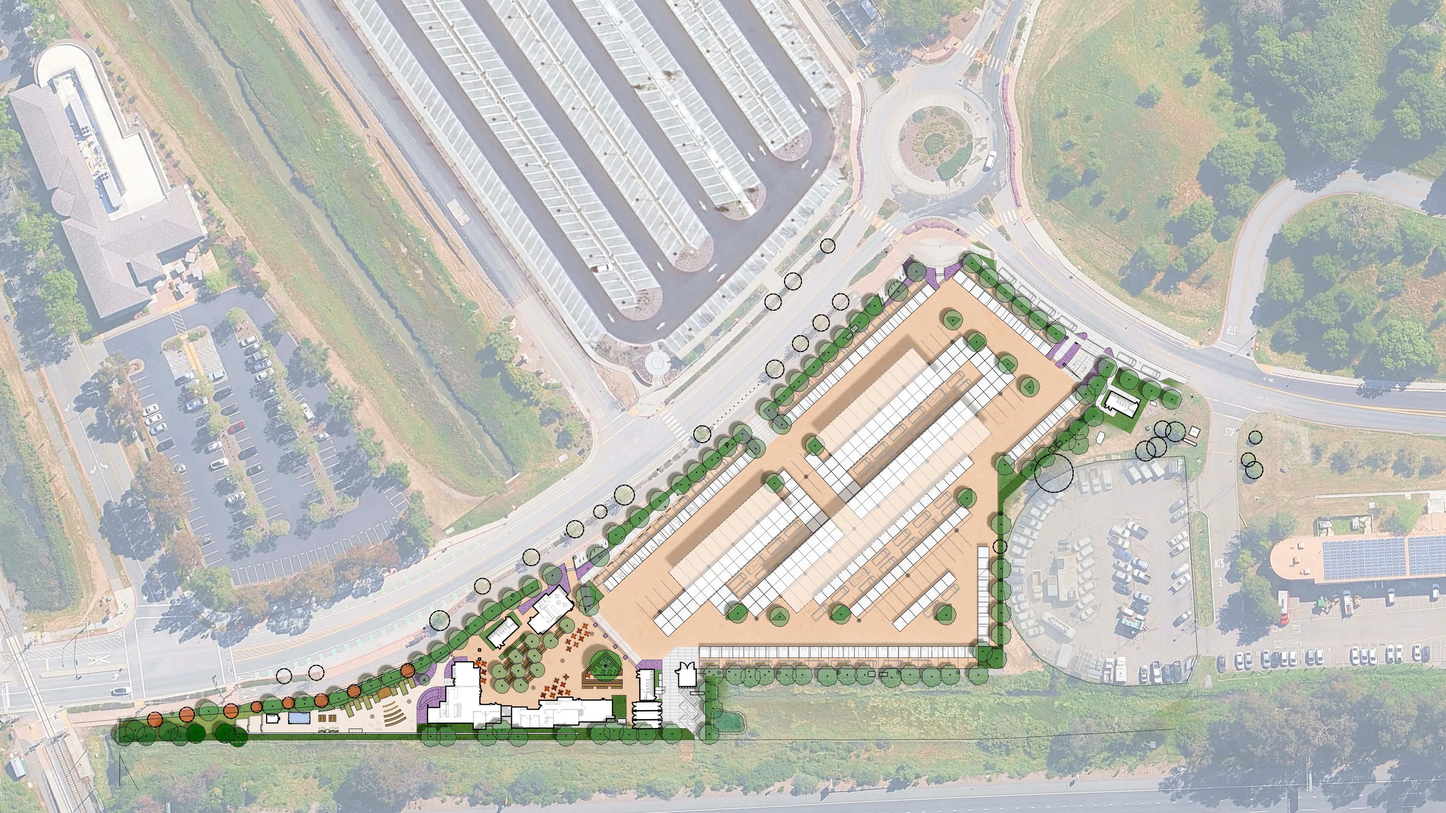
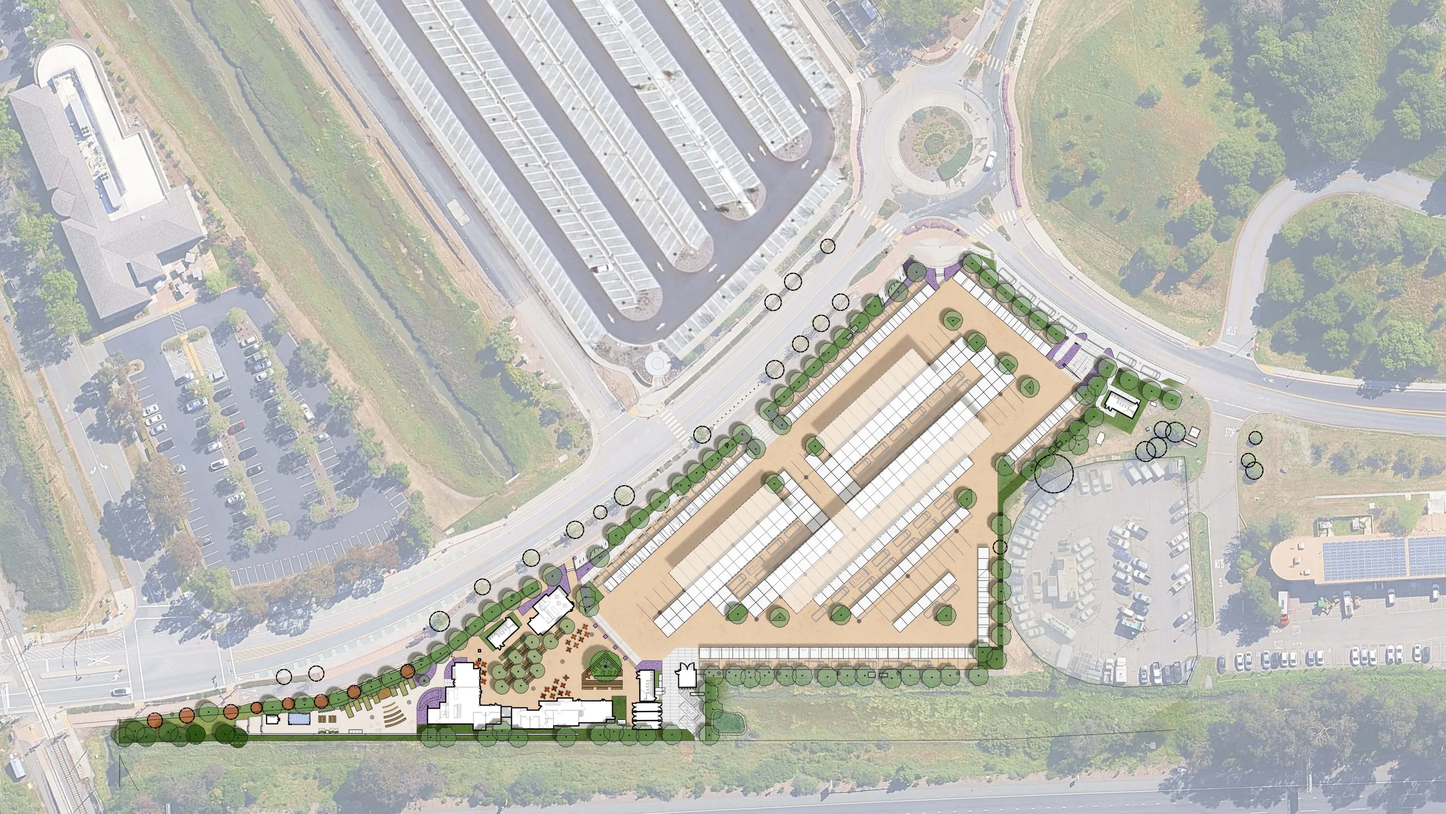
Cut the plan from AIM's 9200px render, and load detail on demand
The PDF's embedded art is 3680px, which after cropping to the page frame
left 3486px. That was the real ceiling behind the blur: on a retina
desktop it runs out at 2.23x, so the zoom cap was hiding a resolution
problem rather than solving one.

AIM's own render is 9200x5175, and it is the same framing as the PDF art
at exactly 2.5x, so every marker percentage carries over untouched. The
extractor now takes it as an optional second argument and refuses a
source whose aspect ratio disagrees with the PDF, since different framing
would move all 34 markers silently.

Three renditions instead of one: 1600 paints first, 3486 is the base, and
7000 loads in the background and layers over the base once ready. The
zoom ceiling tracks whichever is actually loaded, so nobody is offered
sharpness the loaded art cannot deliver. Desktop deep zoom goes from
2.23x to 4.5x sharp.

diff --git a/app/cfa-map/CfaMapClient.tsx b/app/cfa-map/CfaMapClient.tsx
@@ -42,11 +42,11 @@ interface Frame {
   maxScale: number;
 }
 
-function frameOf(w: number, h: number, dpr = 1): Frame {
+function frameOf(w: number, h: number, dpr = 1, sourceWidth = PLAN.width): Frame {
   const lh = w * PLAN_RATIO;
   const minScale = lh > 0 ? Math.max(1, h / lh) : 1;
   // never below minScale: covering the frame wins over staying sharp
-  const sharpScale = w > 0 ? Math.max(minScale, PLAN.width / (w * dpr)) : minScale;
+  const sharpScale = w > 0 ? Math.max(minScale, sourceWidth / (w * dpr)) : minScale;
   return {
     w,
     h,
@@ -117,6 +117,9 @@ export default function CfaMapClient() {
   const [hovered, setHovered] = useState<string | null>(null);
   const [size, setSize] = useState({ w: 0, h: 0 });
   const [dpr, setDpr] = useState(1);
+  // the detail render, once it has arrived: until then zoom is capped against
+  // the base so nobody is offered a sharpness the loaded art cannot deliver
+  const [detailReady, setDetailReady] = useState(false);
   const [narrow, setNarrow] = useState(false);
   // null means "wherever this phase opens"; any gesture pins it to a real view
   const [pinned, setPinned] = useState<View | null>(null);
@@ -130,7 +133,11 @@ export default function CfaMapClient() {
   const pointers = useRef(new Map<number, { x: number; y: number }>());
   const gesture = useRef<{ moved: boolean; distance: number; scale: number } | null>(null);
 
-  const frame = useMemo(() => frameOf(size.w, size.h, dpr), [size.w, size.h, dpr]);
+  const sourceWidth = detailReady ? PLAN.detailWidth : PLAN.width;
+  const frame = useMemo(
+    () => frameOf(size.w, size.h, dpr, sourceWidth),
+    [size.w, size.h, dpr, sourceWidth],
+  );
   const baseView = useMemo(() => {
     if (!frame.w) return { scale: 1, tx: 0, ty: 0 };
     const { x, y, scale } = phase.initialView;
@@ -145,9 +152,11 @@ export default function CfaMapClient() {
 
   // gesture handlers update from the latest view without re-subscribing
   const baseRef = useRef(baseView);
+  const sourceRef = useRef(sourceWidth);
   useEffect(() => {
     baseRef.current = baseView;
-  }, [baseView]);
+    sourceRef.current = sourceWidth;
+  }, [baseView, sourceWidth]);
 
   const active = selected ?? hovered;
 
@@ -186,6 +195,14 @@ export default function CfaMapClient() {
       observer?.disconnect();
     };
   }, [measure]);
+
+  // Off the critical path: the base is already on screen, and a failed load
+  // just leaves the zoom ceiling where it is.
+  useEffect(() => {
+    const img = new window.Image();
+    img.onload = () => setDetailReady(true);
+    img.src = PLAN.detail;
+  }, []);
 
   useEffect(() => {
     const onResize = () => setNarrow(window.innerWidth < 900);
@@ -259,7 +276,7 @@ export default function CfaMapClient() {
       const box = el.getBoundingClientRect();
       const px = e.clientX - box.left;
       const py = e.clientY - box.top;
-      const f = frameOf(box.width, box.height, window.devicePixelRatio || 1);
+      const f = frameOf(box.width, box.height, window.devicePixelRatio || 1, sourceRef.current);
       setPinned((current) => {
         const v = current ?? baseRef.current;
         const next = Math.min(
@@ -333,7 +350,7 @@ export default function CfaMapClient() {
       const [a, b] = [...pointers.current.values()];
       const px = (a.x + b.x) / 2 - box.left;
       const py = (a.y + b.y) / 2 - box.top;
-      const f = frameOf(box.width, box.height, window.devicePixelRatio || 1);
+      const f = frameOf(box.width, box.height, window.devicePixelRatio || 1, sourceRef.current);
       setPinned((current) => {
         const v = current ?? baseRef.current;
         const next = Math.min(f.maxScale, Math.max(f.minScale, startScale * ratio));
@@ -354,7 +371,7 @@ export default function CfaMapClient() {
         const v = current ?? baseRef.current;
         return clampView(
           { ...v, tx: v.tx + dx, ty: v.ty + dy },
-          frameOf(box.width, box.height, window.devicePixelRatio || 1),
+          frameOf(box.width, box.height, window.devicePixelRatio || 1, sourceRef.current),
         );
       });
     }
@@ -648,6 +665,26 @@ export default function CfaMapClient() {
                   backgroundSize: "cover",
                 }}
               />
+
+              {/* The detail render, laid over the base once it has loaded. The
+                  base stays underneath so there is never a blank frame, and
+                  this carries no alt text: it is the same picture. */}
+              {detailReady && (
+                // eslint-disable-next-line @next/next/no-img-element
+                <img
+                  src={PLAN.detail}
+                  alt=""
+                  aria-hidden
+                  draggable={false}
+                  style={{
+                    position: "absolute",
+                    inset: 0,
+                    width: "100%",
+                    height: "100%",
+                    objectFit: "cover",
+                  }}
+                />
+              )}
 
               {phase.features.map((f) =>
                 f.points.map((point, i) => {

diff --git a/lib/cfaMap.ts b/lib/cfaMap.ts
@@ -159,13 +159,26 @@ export const PHASES: Phase[] = [
 ]
 
 /**
- * The base plan, shared by both phases. Cropped to the PDF page frame: Canva
- * places the art larger than the page and it overhangs the trim, so the full
- * export would put every marker off by the overhang.
+ * The base plan, shared by both phases.
+ *
+ * Cut from AIM's own 9200x5175 render ("AIM CFA -- Illustrative w Canopies
+ * Toned"), which is the same framing as the PDF's embedded art at exactly 2.5x,
+ * so the marker percentages above carry over untouched.
+ *
+ * Cropped to the PDF page frame: Canva places the art larger than the page and
+ * it overhangs the trim, so the full export would put every marker off by the
+ * overhang. Crop is (242, 0, 8715, 4902) of the 9200px source.
+ *
+ * Three sizes, because one file cannot be both quick to load and sharp at full
+ * zoom. `placeholder` paints first, `src` is what you look at, and `detail`
+ * loads in the background and takes over once it is ready. Zoom is capped
+ * against whichever of the last two is actually loaded, see sharpScale.
  */
 export const PLAN = {
-  src: '/cfa/site-plan.webp',
   placeholder: '/cfa/site-plan-1600.webp',
+  src: '/cfa/site-plan.webp',
   width: 3486,
   height: 1961,
+  detail: '/cfa/site-plan-detail.webp',
+  detailWidth: 7000,
 }

diff --git a/scripts/extract-site-map.py b/scripts/extract-site-map.py
@@ -1,11 +1,19 @@
 #!/usr/bin/env python3
 """Pull the CFA site map out of AIM's Canva PDF.
 
-Writes the base plan into public/cfa/ and prints the marker coordinates for
+Writes the plan art into public/cfa/ and prints the marker coordinates for
 lib/cfaMap.ts. Safe to run twice: it overwrites its own outputs and touches
 nothing else.
 
     python3 scripts/extract-site-map.py ~/Downloads/"CFA Site Map.pdf"
+
+The PDF's embedded art is only 3680px wide. AIM's own render is 9200px and is
+the same framing at exactly 2.5x, so pass it as a second argument to cut the
+art from that instead. Marker coordinates are unaffected either way: they are
+percentages of the PDF page, and the crop is computed from the page geometry.
+
+    python3 scripts/extract-site-map.py ~/Downloads/"CFA Site Map.pdf" \
+        ~/Desktop/"AIM CFA -- Illustrative w Canopies Toned (1).jpg"
 
 Page 1 is the Phase One legend (A-M), page 2 is Phase Two (1-14). Both pages
 carry the same base image, so only one copy is written.
@@ -22,6 +30,7 @@ website. Raise them with AIM rather than only fixing them here:
 
 import hashlib
 import pathlib
+import re
 import subprocess
 import sys
 
@@ -71,7 +80,17 @@ def page_crop(page, source_width, source_height):
     )
 
 
-def write_base_image(doc):
+# name, target width, quality. The base is what you look at, detail loads in the
+# background for deep zoom, and 1600 paints first. Keep these in step with PLAN
+# in lib/cfaMap.ts.
+RENDITIONS = (
+    ("site-plan.webp", 3486, 82),
+    ("site-plan-detail.webp", 7000, 80),
+    ("site-plan-1600.webp", 1600, 72),
+)
+
+
+def write_base_image(doc, hires=None):
     xref = doc[0].get_images(full=True)[0][0]
     image = doc.extract_image(xref)
     digests = set()
@@ -81,20 +100,47 @@ def write_base_image(doc):
     if len(digests) > 1:
         print("! pages no longer share one base image: check the plan art", file=sys.stderr)
 
-    x, y, w, h = page_crop(doc[0], image["width"], image["height"])
     OUT_DIR.mkdir(parents=True, exist_ok=True)
-    source = OUT_DIR / "source.jpg"
-    source.write_bytes(image["image"])
-    # full detail for deep zoom, plus a small first paint. cwebp crops before it
-    # resizes, so the small one is the same frame at lower resolution.
-    for name, width, quality in ((("site-plan.webp"), 0, 82), ("site-plan-1600.webp", 1600, 72)):
-        args = ["cwebp", "-quiet", "-q", str(quality), "-crop", str(x), str(y), str(w), str(h)]
-        if width:
-            args += ["-resize", str(width), "0"]
-        subprocess.run(args + [str(source), "-o", str(OUT_DIR / name)], check=True)
-    source.unlink()
-    print(f"cropped {image['width']}x{image['height']} to {w}x{h} at ({x}, {y})")
-    return w, h
+    if hires:
+        source = pathlib.Path(hires)
+        sw, sh = image_size(source)
+        # the crop comes from the PDF page, so the replacement has to be the
+        # same framing; anything else silently moves every marker
+        pdf_aspect = image["width"] / image["height"]
+        if abs(sw / sh - pdf_aspect) > 0.005:
+            sys.exit(
+                f"{source.name} is {sw}x{sh} ({sw / sh:.4f}), but the PDF art is "
+                f"{pdf_aspect:.4f}. Different framing would move every marker."
+            )
+        temp = None
+    else:
+        sw, sh = image["width"], image["height"]
+        source = temp = OUT_DIR / "source.jpg"
+        temp.write_bytes(image["image"])
+
+    x, y, w, h = page_crop(doc[0], sw, sh)
+    # cwebp crops before it resizes, so every rendition is the same frame
+    for name, width, quality in RENDITIONS:
+        subprocess.run(
+            ["cwebp", "-quiet", "-q", str(quality),
+             "-crop", str(x), str(y), str(w), str(h),
+             "-resize", str(min(width, w)), "0",
+             str(source), "-o", str(OUT_DIR / name)],
+            check=True,
+        )
+    if temp:
+        temp.unlink()
+    print(f"cut {sw}x{sh} to {w}x{h} at ({x}, {y}) from {source.name}")
+    return min(RENDITIONS[0][1], w), round(min(RENDITIONS[0][1], w) * h / w)
+
+
+def image_size(path):
+    out = subprocess.run(
+        ["sips", "-g", "pixelWidth", "-g", "pixelHeight", str(path)],
+        capture_output=True, text=True, check=True,
+    ).stdout
+    dims = {k: int(v) for k, v in re.findall(r"(pixelWidth|pixelHeight): (\d+)", out)}
+    return dims["pixelWidth"], dims["pixelHeight"]
 
 
 def main():
@@ -104,8 +150,8 @@ def main():
     if doc.page_count != 2:
         print(f"! expected 2 pages, got {doc.page_count}", file=sys.stderr)
 
-    w, h = write_base_image(doc)
-    print(f"wrote {OUT_DIR}/site-plan.webp and site-plan-1600.webp at {w}x{h}")
+    w, h = write_base_image(doc, sys.argv[2] if len(sys.argv) > 2 else None)
+    print("wrote " + ", ".join(name for name, _, _ in RENDITIONS))
     print(f"set PLAN.width/height in lib/cfaMap.ts to {w}/{h}\n")
 
     for index, keys in enumerate(PHASE_KEYS[: doc.page_count]):
